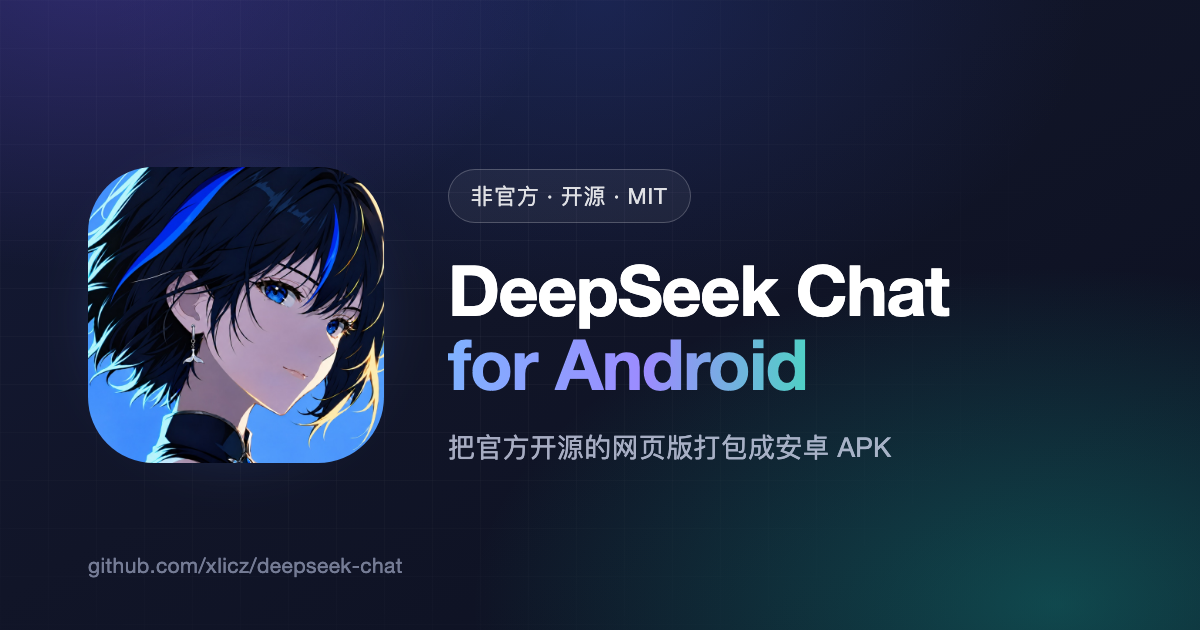
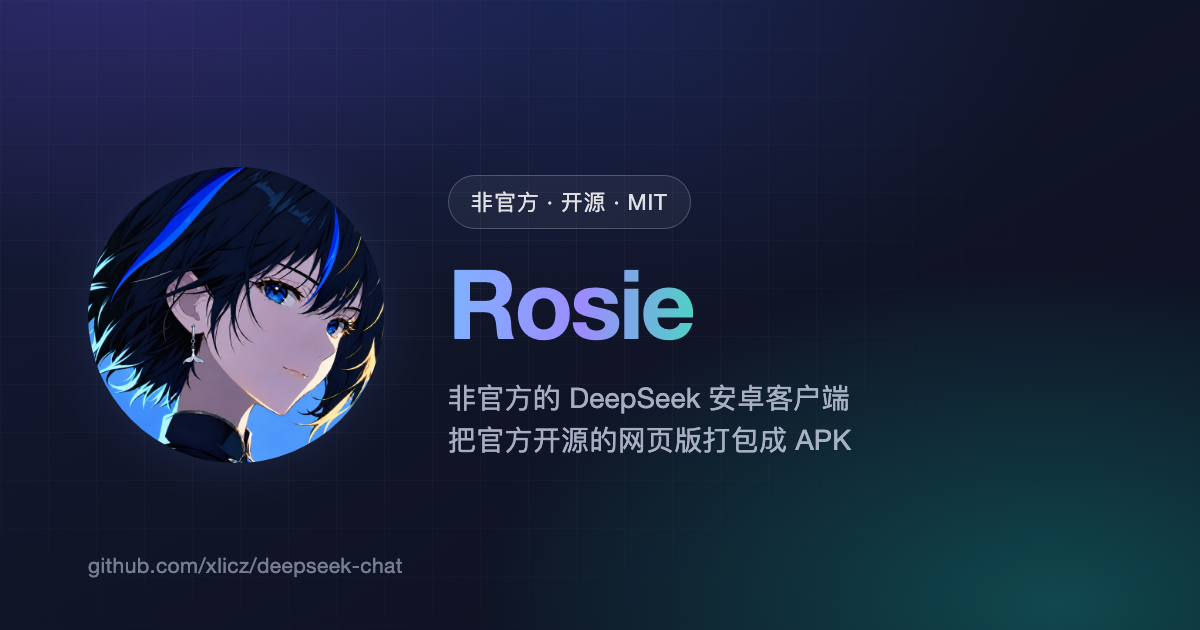
docs: rebrand site and README to Rosie

diff --git a/docs/index.html b/docs/index.html
@@ -3,7 +3,7 @@
 <head>
 <meta charset="utf-8">
 <meta name="viewport" content="width=device-width, initial-scale=1, viewport-fit=cover">
-<title>DeepSeek Chat for Android — 非官方安卓客户端 APK 下载</title>
+<title>Rosie — 非官方 DeepSeek 安卓客户端 APK 下载</title>
 <meta name="description" content="把 DeepSeek 官方开源的网页版 chat-demo 打包成安卓 APK 的非官方客户端。免费开源，直连 DeepSeek API，无中转，支持语音、附件、深度思考。Android 7.0+。">
 <meta name="keywords" content="DeepSeek, DeepSeek 安卓客户端, DeepSeek APK, 非官方客户端, chat-demo, Android, Capacitor, WebView">
 <meta name="author" content="xlicz">
@@ -11,8 +11,8 @@
 <meta name="robots" content="index,follow,max-image-preview:large,max-snippet:-1">
 <link rel="canonical" href="https://xlicz.github.io/deepseek-chat/">
 <meta property="og:type" content="website">
-<meta property="og:site_name" content="DeepSeek Chat for Android">
-<meta property="og:title" content="DeepSeek Chat for Android — 非官方安卓客户端">
+<meta property="og:site_name" content="Rosie">
+<meta property="og:title" content="Rosie — 非官方 DeepSeek 安卓客户端">
 <meta property="og:description" content="把 DeepSeek 官方开源的网页版 chat-demo 打包成安卓 APK。免费开源，直连 API，无中转。">
 <meta property="og:url" content="https://xlicz.github.io/deepseek-chat/">
 <meta property="og:locale" content="zh_CN">
@@ -20,18 +20,18 @@
 <meta property="og:image:type" content="image/png">
 <meta property="og:image:width" content="1200">
 <meta property="og:image:height" content="630">
-<meta property="og:image:alt" content="DeepSeek Chat for Android，非官方安卓客户端">
+<meta property="og:image:alt" content="Rosie，非官方 DeepSeek 安卓客户端">
 <meta name="twitter:card" content="summary_large_image">
-<meta name="twitter:title" content="DeepSeek Chat for Android — 非官方安卓客户端">
+<meta name="twitter:title" content="Rosie — 非官方 DeepSeek 安卓客户端">
 <meta name="twitter:description" content="把 DeepSeek 官方开源的网页版 chat-demo 打包成安卓 APK。免费开源，直连 API，无中转。">
 <meta name="twitter:image" content="https://xlicz.github.io/deepseek-chat/social-preview.png">
-<meta name="twitter:image:alt" content="DeepSeek Chat for Android，非官方安卓客户端">
+<meta name="twitter:image:alt" content="Rosie，非官方 DeepSeek 安卓客户端">
 <link rel="icon" href="app-icon-32.png" sizes="32x32">
 <link rel="icon" href="app-icon-64.png" sizes="64x64">
 <link rel="apple-touch-icon" href="app-icon-180.png">
 <script type="application/ld+json">
 {"@context":"https://schema.org","@graph":[
-{"@type":"SoftwareApplication","@id":"https://xlicz.github.io/deepseek-chat/#app","name":"DeepSeek Chat for Android","alternateName":"DeepSeek 安卓客户端（非官方）","description":"非官方的 DeepSeek 安卓客户端：把 DeepSeek 官方开源的网页版界面 chat-demo 打包成 APK，用系统 WebView 运行，直接调用 DeepSeek API，没有自建后端或中转服务器。","applicationCategory":"UtilitiesApplication","applicationSubCategory":"AI 对话客户端","operatingSystem":"Android 7.0+","softwareVersion":"0.1.9","fileSize":"5.3MB","isAccessibleForFree":true,"downloadUrl":"https://github.com/xlicz/deepseek-chat/releases/latest","codeRepository":"https://github.com/xlicz/deepseek-chat","license":"https://opensource.org/licenses/MIT","programmingLanguage":["Java","JavaScript"],"inLanguage":["zh-CN","en"],"author":{"@type":"Person","name":"xlicz","url":"https://github.com/xlicz"},"offers":{"@type":"Offer","price":"0","priceCurrency":"CNY","availability":"https://schema.org/InStock"},"isBasedOn":"https://github.com/deepseek-ai/chat-demo","image":"https://xlicz.github.io/deepseek-chat/social-preview.png","screenshot":"https://xlicz.github.io/deepseek-chat/app-dark.png"},
+{"@type":"SoftwareApplication","@id":"https://xlicz.github.io/deepseek-chat/#app","name":"Rosie","alternateName":["DeepSeek Chat for Android","DeepSeek 安卓客户端（非官方）"],"description":"Rosie 是非官方的 DeepSeek 安卓客户端：把 DeepSeek 官方开源的网页版界面 chat-demo 打包成 APK，用系统 WebView 运行，直接调用 DeepSeek API，没有自建后端或中转服务器。","applicationCategory":"UtilitiesApplication","applicationSubCategory":"AI 对话客户端","operatingSystem":"Android 7.0+","softwareVersion":"0.1.9","fileSize":"5.3MB","isAccessibleForFree":true,"downloadUrl":"https://github.com/xlicz/deepseek-chat/releases/latest","codeRepository":"https://github.com/xlicz/deepseek-chat","license":"https://opensource.org/licenses/MIT","programmingLanguage":["Java","JavaScript"],"inLanguage":["zh-CN","en"],"author":{"@type":"Person","name":"xlicz","url":"https://github.com/xlicz"},"offers":{"@type":"Offer","price":"0","priceCurrency":"CNY","availability":"https://schema.org/InStock"},"isBasedOn":"https://github.com/deepseek-ai/chat-demo","image":"https://xlicz.github.io/deepseek-chat/social-preview.png","screenshot":"https://xlicz.github.io/deepseek-chat/app-dark.png"},
 {"@type":"FAQPage","@id":"https://xlicz.github.io/deepseek-chat/#faq","mainEntity":[
 {"@type":"Question","name":"这是 DeepSeek 官方发布的 App 吗？","acceptedAnswer":{"@type":"Answer","text":"不是。这是第三方打包的社区项目，只复用官方开源的 chat-demo 网页界面。官方渠道只有应用商店里的 DeepSeek App 和 chat.deepseek.com。"}},
 {"@type":"Question","name":"用这个 App 需要付费吗？","acceptedAnswer":{"@type":"Answer","text":"App 本身免费开源。对话走 DeepSeek API，按官方价格从你自己的账户扣费，需要先在 platform.deepseek.com 申请 API Key 并充值。"}},
@@ -260,7 +260,7 @@ footer{border-top:1px solid var(--line);margin-top:80px;padding:44px 0 60px;colo
   <div class="container nav-in">
     <a class="logo" href="#top">
       <img src="app-icon-64.png" width="26" height="26" alt="" style="width:26px;height:26px;border-radius:8px">
-      DeepSeek Chat
+      Rosie
     </a>
     <div class="nav-links">
       <a href="#features">功能</a>
@@ -279,7 +279,7 @@ footer{border-top:1px solid var(--line);margin-top:80px;padding:44px 0 60px;colo
   <div class="container">
     <div class="rise"><span class="badge"><i class="dot"></i>非官方 · 开源 · MIT</span></div>
     <h1 class="rise">把 DeepSeek 网页版<br><span class="grad">装进安卓桌面</span></h1>
-    <p class="lead rise">界面是官方开源的 chat-demo，外壳是一个轻量安卓工程。直连 <span class="inline-code">api.deepseek.com</span>，没有中转服务器，没有埋点统计。</p>
+    <p class="lead rise">Rosie 的界面是官方开源的 chat-demo，外壳是一个轻量安卓工程。直连 <span class="inline-code">api.deepseek.com</span>，没有中转服务器，没有埋点统计。</p>
     <div class="actions rise">
       <a class="btn primary" href="https://github.com/xlicz/deepseek-chat/releases/latest">
         <svg width="17" height="17" viewBox="0 0 24 24" fill="none" stroke="currentColor" stroke-width="2" stroke-linecap="round" stroke-linejoin="round"><path d="M12 3v12"/><path d="m7 11 5 5 5-5"/><path d="M5 21h14"/></svg>
@@ -293,8 +293,8 @@ footer{border-top:1px solid var(--line);margin-top:80px;padding:44px 0 60px;colo
     <p class="meta rise"><b>v0.1.9</b><span>·</span>5.3 MB<span>·</span>Android 7.0+<span>·</span>需要自备 API Key</p>
 
     <div class="stage rise">
-      <div class="phone back" aria-hidden="true"><div class="screen"><img src="app-light.png" alt="浅色主题下的 DeepSeek Chat 安卓客户端" width="1080" height="1754" loading="lazy" decoding="async"></div></div>
-      <div class="phone front"><div class="screen"><img src="app-dark.png" alt="深色主题下 DeepSeek Chat 安卓客户端的对话界面" width="1080" height="1754" decoding="async"></div></div>
+      <div class="phone back" aria-hidden="true"><div class="screen"><img src="app-light.png" alt="浅色主题下的 Rosie 安卓客户端" width="1080" height="1754" loading="lazy" decoding="async"></div></div>
+      <div class="phone front"><div class="screen"><img src="app-dark.png" alt="深色主题下 Rosie 安卓客户端的对话界面" width="1080" height="1754" decoding="async"></div></div>
       <span class="chip l">直连 api.deepseek.com</span>
       <span class="chip r">无中转 · 无埋点</span>
       <span class="chip b">深浅主题自动跟随系统</span>
@@ -423,7 +423,7 @@ footer{border-top:1px solid var(--line);margin-top:80px;padding:44px 0 60px;colo
 <footer>
   <div class="container foot">
     <div>
-      <div style="color:#dbe1ee;font-weight:600">DeepSeek Chat for Android</div>
+      <div style="color:#dbe1ee;font-weight:600">Rosie</div>
       <p class="disclaimer">非官方社区项目，与 DeepSeek 公司没有隶属或合作关系。「DeepSeek」是其所有者的商标，这里只用来说明 App 接入的服务。</p>
     </div>
     <div class="foot-links">

diff --git a/README.md b/README.md
@@ -1,11 +1,11 @@
-# DeepSeek Chat for Android（非官方 APK）
+# Rosie — 非官方 DeepSeek 安卓客户端（APK）
 
 [![Release](https://img.shields.io/github/v/release/xlicz/deepseek-chat?style=flat-square&label=release)](../../releases/latest)
 [![Downloads](https://img.shields.io/github/downloads/xlicz/deepseek-chat/total?style=flat-square)](../../releases)
 [![Android](https://img.shields.io/badge/Android-7.0%2B-3ddc84?style=flat-square&logo=android&logoColor=white)](#系统要求)
 [![License](https://img.shields.io/github/license/xlicz/deepseek-chat?style=flat-square)](LICENSE)
 
-**DeepSeek Chat for Android 是一个非官方的 DeepSeek 安卓客户端**：它把 DeepSeek 官方开源的网页版界面 [chat-demo](https://github.com/deepseek-ai/chat-demo) 打包成安卓 APK，用系统 WebView 加载，直接调用 DeepSeek API。它不重新实现界面，也没有自建后端或中转服务器。
+**Rosie 是一个非官方的 DeepSeek 安卓客户端**：它把 DeepSeek 官方开源的网页版界面 [chat-demo](https://github.com/deepseek-ai/chat-demo) 打包成安卓 APK，用系统 WebView 加载，直接调用 DeepSeek API。它不重新实现界面，也没有自建后端或中转服务器。
 
 适合想用一个独立图标、不经过浏览器、又能保留网页版全部功能的安卓用户。安装包在 [Releases](../../releases) 里，免费下载。
 
@@ -30,7 +30,7 @@
 
 | 项目         | 值                                                                     |
 | ------------ | ---------------------------------------------------------------------- |
-| 应用名       | DeepSeek Chat（桌面图标下方显示）                                      |
+| 应用名       | Rosie（桌面图标下方显示）                                              |
 | 包名         | `com.deepseekchat.android`                                             |
 | 最新版本     | v0.1.9                                                                 |
 | 安装包       | `deepseek-chat-0.1.9.apk`，约 5.3 MB，正式密钥签名                     |
